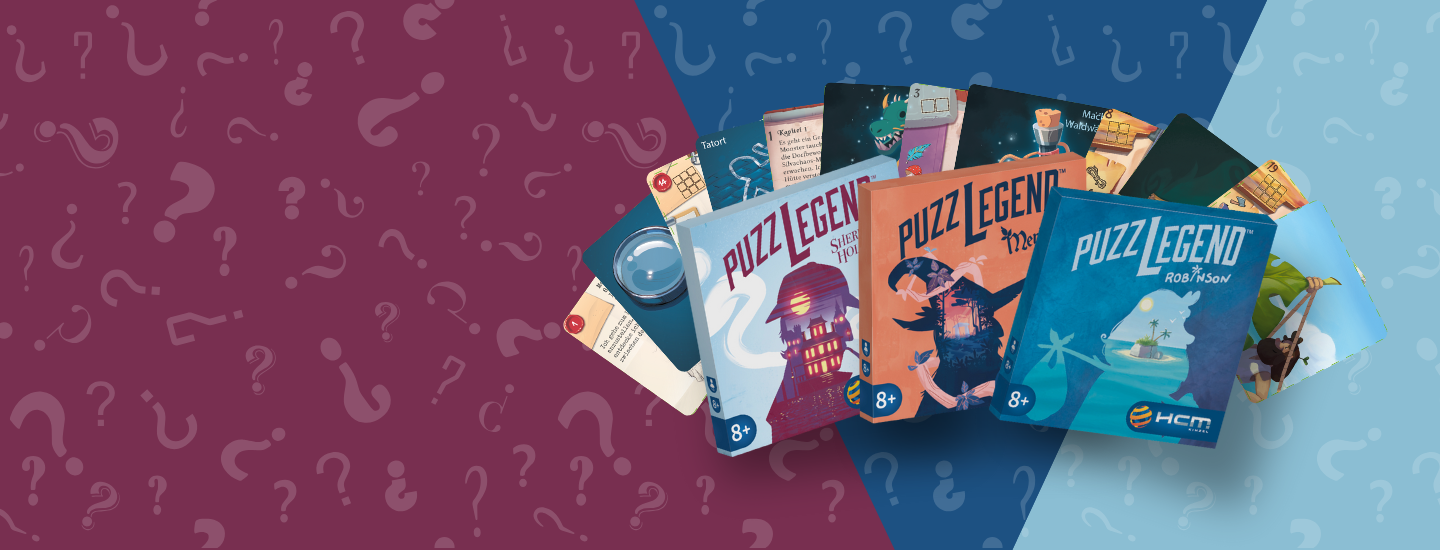
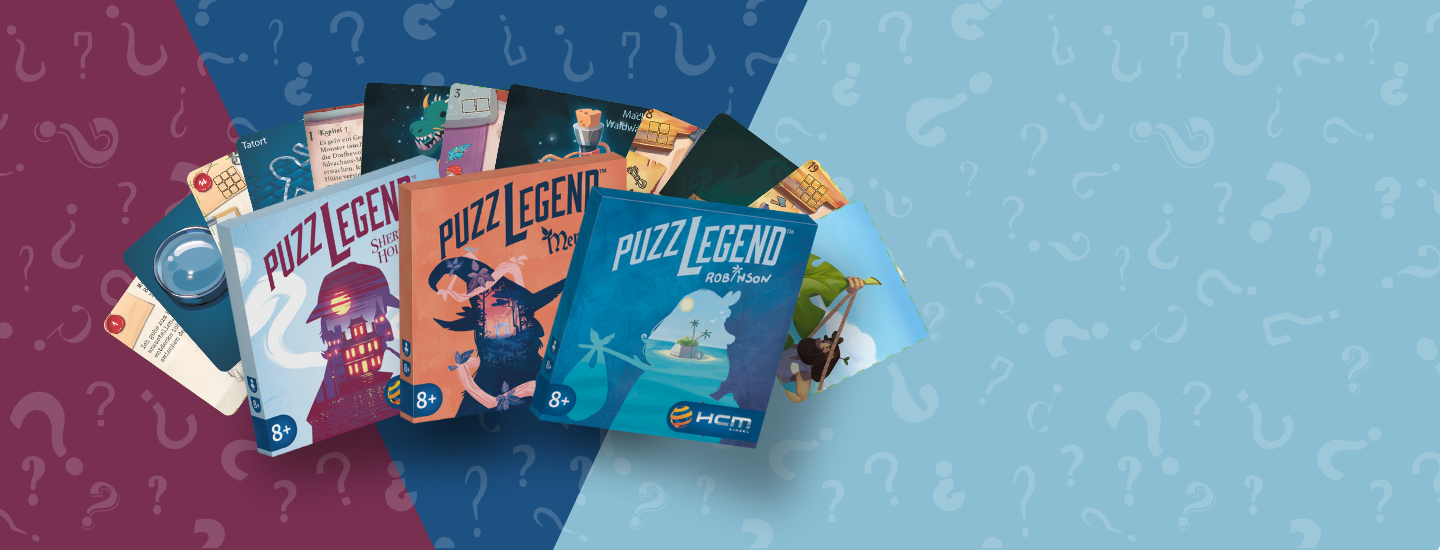
Added: More accurate carousel

diff --git a/src/components/carousel.vue b/src/components/carousel.vue
@@ -1,22 +1,38 @@
 <template>
-<div id="carousel" class="carousel slide">
-  <div class="carousel-inner">
-    <div class="carousel-item active">
-      <img src="/src/assets/PuzzLegend.png" class="d-block w-100" alt="Banner für die Spielereihe Puzzlegend">
+  <div id="carousel" class="carousel slide">
+    <div class="carousel-indicators">
+      <button type="button" data-bs-target="#carousel" data-bs-slide-to="0" class="active" aria-current="true" aria-label="Slide 1"></button>
+      <button type="button" data-bs-target="#carousel" data-bs-slide-to="1" aria-label="Slide 2"></button>
     </div>
-    <div class="carousel-item">
-      <img src="/src/assets/NSP.png" class="d-block w-100" alt="Banner für die Spieleneuheit Next Station Paris">
+    <div class="carousel-inner">
+      <div class="carousel-item active">
+        <img src="/src/assets/NSP.png" class="d-block w-100" alt="Vorstellung der Spieleneuheit Next Station London">
+        <div class="overlay"></div> <!-- Shadow Overlay -->
+        <div class="carousel-caption">
+          <h5>Next Station: Paris!</h5>
+          <p>Von London bis nach Tokyo - unsere Weltreise geht weiter nach Paris! Strategisch Planen, clever Punkten - nur die geschicktesten Stadtplaner können gewinnen.</p>
+          <a class="btn" href="#" role="button">JETZT KAUFEN</a>
+        </div>
+      </div>
+      <div class="carousel-item">
+        <img src="/src/assets/PuzzLegend.png" class="d-block w-100" alt="Vorstellung der Spielereihe PuzzLegend">
+        <div class="overlay"></div> <!-- Shadow Overlay -->
+        <div class="carousel-caption">
+          <h5>PuzzLegend: Kannst du die Rätsel lösen?</h5>
+          <p>Erlebe spannende Geschichten und löse knifflige Rätsel. Ob Sherlock Holmes, Merlin oder Robinson – jede Karte bringt dich der Lösung näher. Bist du bereit für die Herausforderung?</p>
+          <a class="btn" href="#" role="button">JETZT KAUFEN</a>
+        </div>
+      </div>
     </div>
+    <button class="carousel-control-prev" type="button" data-bs-target="#carousel" data-bs-slide="prev">
+      <span class="carousel-control-prev-icon" aria-hidden="true"></span>
+      <span class="visually-hidden">Previous</span>
+    </button>
+    <button class="carousel-control-next" type="button" data-bs-target="#carousel" data-bs-slide="next">
+      <span class="carousel-control-next-icon" aria-hidden="true"></span>
+      <span class="visually-hidden">Next</span>
+    </button>
   </div>
-  <button class="carousel-control-prev" type="button" data-bs-target="#carousel" data-bs-slide="prev">
-    <span class="carousel-control-prev-icon" aria-hidden="true"></span>
-    <span class="visually-hidden">Previous</span>
-  </button>
-  <button class="carousel-control-next" type="button" data-bs-target="#carousel" data-bs-slide="next">
-    <span class="carousel-control-next-icon" aria-hidden="true"></span>
-    <span class="visually-hidden">Next</span>
-  </button>
-</div>
 </template>
 
 <script>
@@ -26,5 +42,57 @@ export default {
 </script>
 
 <style scoped>
+.carousel-item {
+  position: relative;
+}
 
+.overlay {
+  position: absolute;
+  top: 0;
+  right: 0;
+  width: 170vb;
+  height: 100%;
+  background: linear-gradient(to right, rgba(0, 0, 0, 0) 0%, rgba(0, 0, 0, 0.7) 100%);
+}
+
+.carousel-caption {
+  position: absolute;
+  top: 50%;
+  right: 10%; 
+  left: 60%;
+  transform: translateY(-50%);
+  color: white;
+  padding: 20px;
+  text-align: left;
+  max-width: fit-content;
+  min-height: fit-content;
+}
+
+.carousel-caption h5 {
+  font-size: 2.5em;
+  font-weight: 800;
+}
+
+.carousel-caption p {
+  font-size: 1em;
+}
+
+a.btn {
+  background-color: #FF8A00;
+  border: none;
+  color: #ffffff;
+  padding: 10px 20px;
+  text-align: center;
+  text-decoration: none;
+  display: inline-block;
+  font-size: 16px;
+  margin-top: 10px;
+  cursor: pointer;
+  font-weight: 500;
+}
+
+a.btn:hover {
+  background-color: #FAB600;
+  color: #ffffff;
+}
 </style>

diff --git a/src/App.vue b/src/App.vue
@@ -13,9 +13,9 @@
 </template>
 
 <script>
-import carousel from './components/carousel.vue';
 import Infobar from './components/infobar.vue';
 import navigation from './components/navigation.vue';
+import carousel from './components/carousel.vue';
 import products from './components/products.vue';
 import Footer from './components/footer.vue';
 
